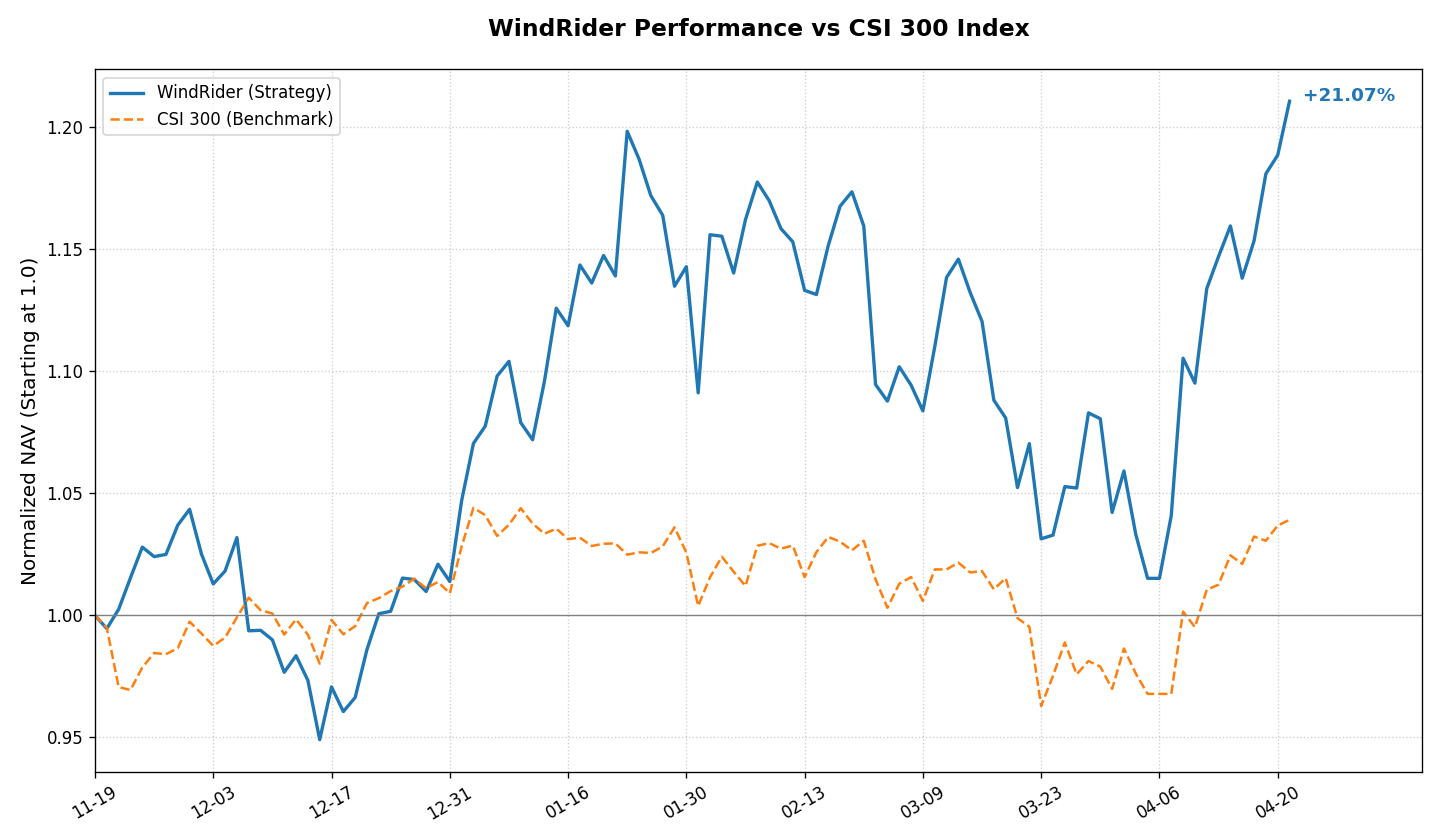
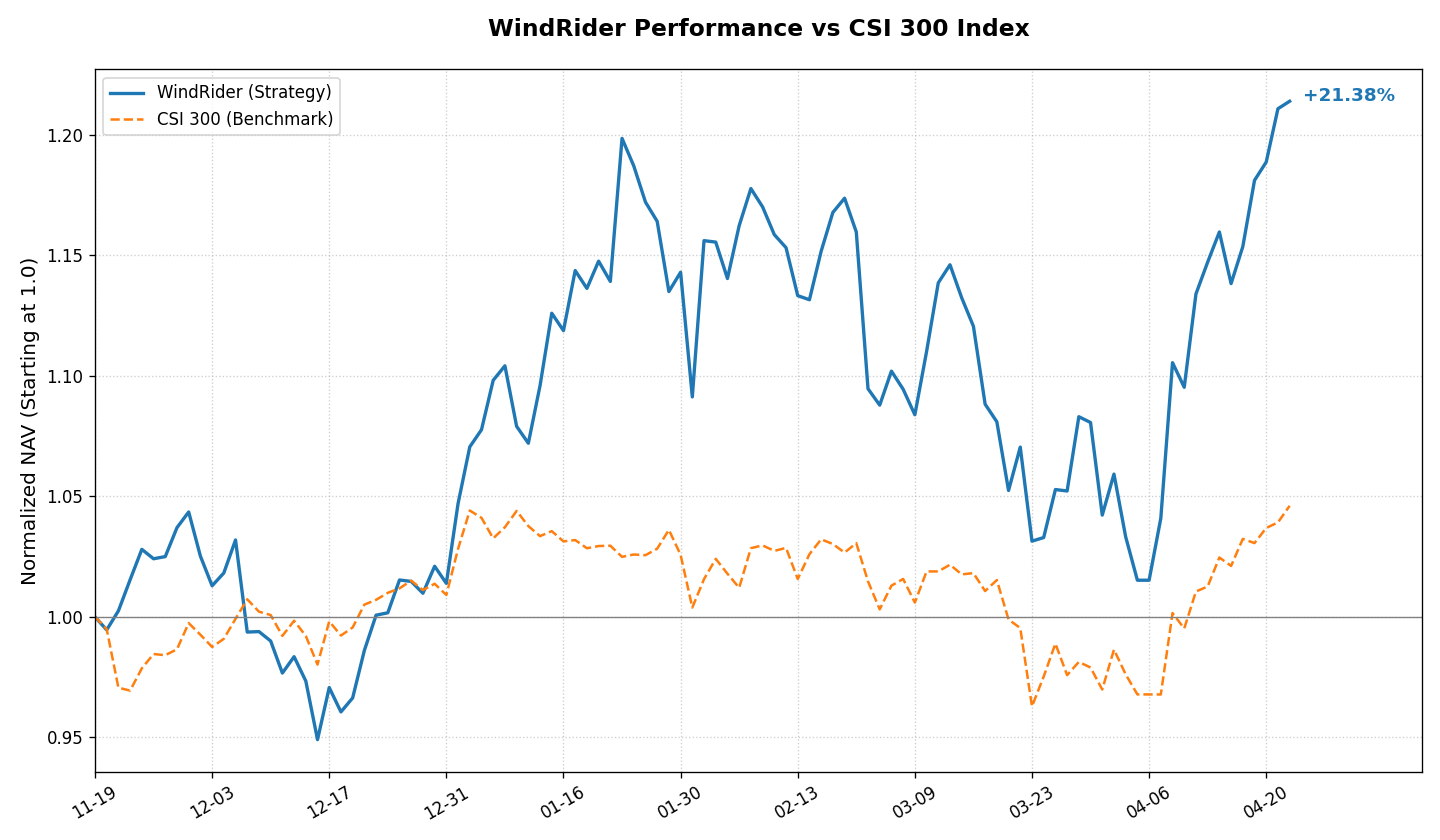
Updated Hugo site content

diff --git a/content/investment/position.md b/content/investment/position.md
@@ -1,8 +1,8 @@
 +++
 title = "如山-股票组合持仓 /// Position"
 summary = "主动管理型股票组合。对标沪深300指数，采用基本面选股策略。"
-date = 2026-04-21T15:12:04+08:00
-lastmod = 2026-04-21T15:12:04+08:00
+date = 2026-04-22T15:12:07+08:00
+lastmod = 2026-04-22T15:12:07+08:00
 draft = false
 description = "如山股票组合持仓"
 +++
@@ -12,30 +12,30 @@ description = "如山股票组合持仓"
 
 ### 如山股票组合 &nbsp;&nbsp;<span style="color: #E63946; font-weight: bold;">/</span><span style="color: #F1A73E; font-weight: bold;">/</span><span style="color: #000091; font-weight: bold;">/</span>&nbsp;&nbsp; 每日持仓
 WindRider Equity Portfolio <br>
-净值简报 <small>(截至: 2026-04-21)</small>
+净值简报 <small>(截至: 2026-04-22)</small>
 
 |  |  |
 | :--- | :--- |
 | **指数代码：** | WDR.EQ |
 | **成立日期：** | 2025-11-19 |
-| **最新净值：** | 1.2107 |
-| **今日涨跌：** | +1.86% |
+| **最新净值：** | 1.2138 |
+| **今日涨跌：** | +0.26% |
 
 ===========================
 
 | 核心表现 | |
 | :--- | :--- |
-| **累计收益：** | +21.07% |
-| **年化收益：** | +57.80% |
+| **累计收益：** | +21.38% |
+| **年化收益：** | +58.28% |
 | **最大回撤：** | -15.29% |
-| **基准点位：** | 4768.00 (CSI300) |
-| **策略状态：** | 已运行 154 天 |
+| **基准点位：** | 4799.63 (CSI300) |
+| **策略状态：** | 已运行 155 天 |
 
 ### 持仓明细
 | 股票名称 | 成本价 | 现价 | 盈亏 | 占比 |
 | :--- | :--- | :--- | :--- | :--- | :--- |
-| 先导智能 <small>300450</small> | 52.20 | 58.58 | <span style="color:#E63946">+12.22%</span> | 63.73% |
-| 比亚迪 <small>002594</small> | 100.19 | 101.53 | <span style="color:#E63946">+1.33%</span> | 15.78% |
+| 先导智能 <small>300450</small> | 52.20 | 58.80 | <span style="color:#E63946">+12.64%</span> | 63.81% |
+| 比亚迪 <small>002594</small> | 100.19 | 101.62 | <span style="color:#E63946">+1.42%</span> | 15.75% |
 
 <br>
 
